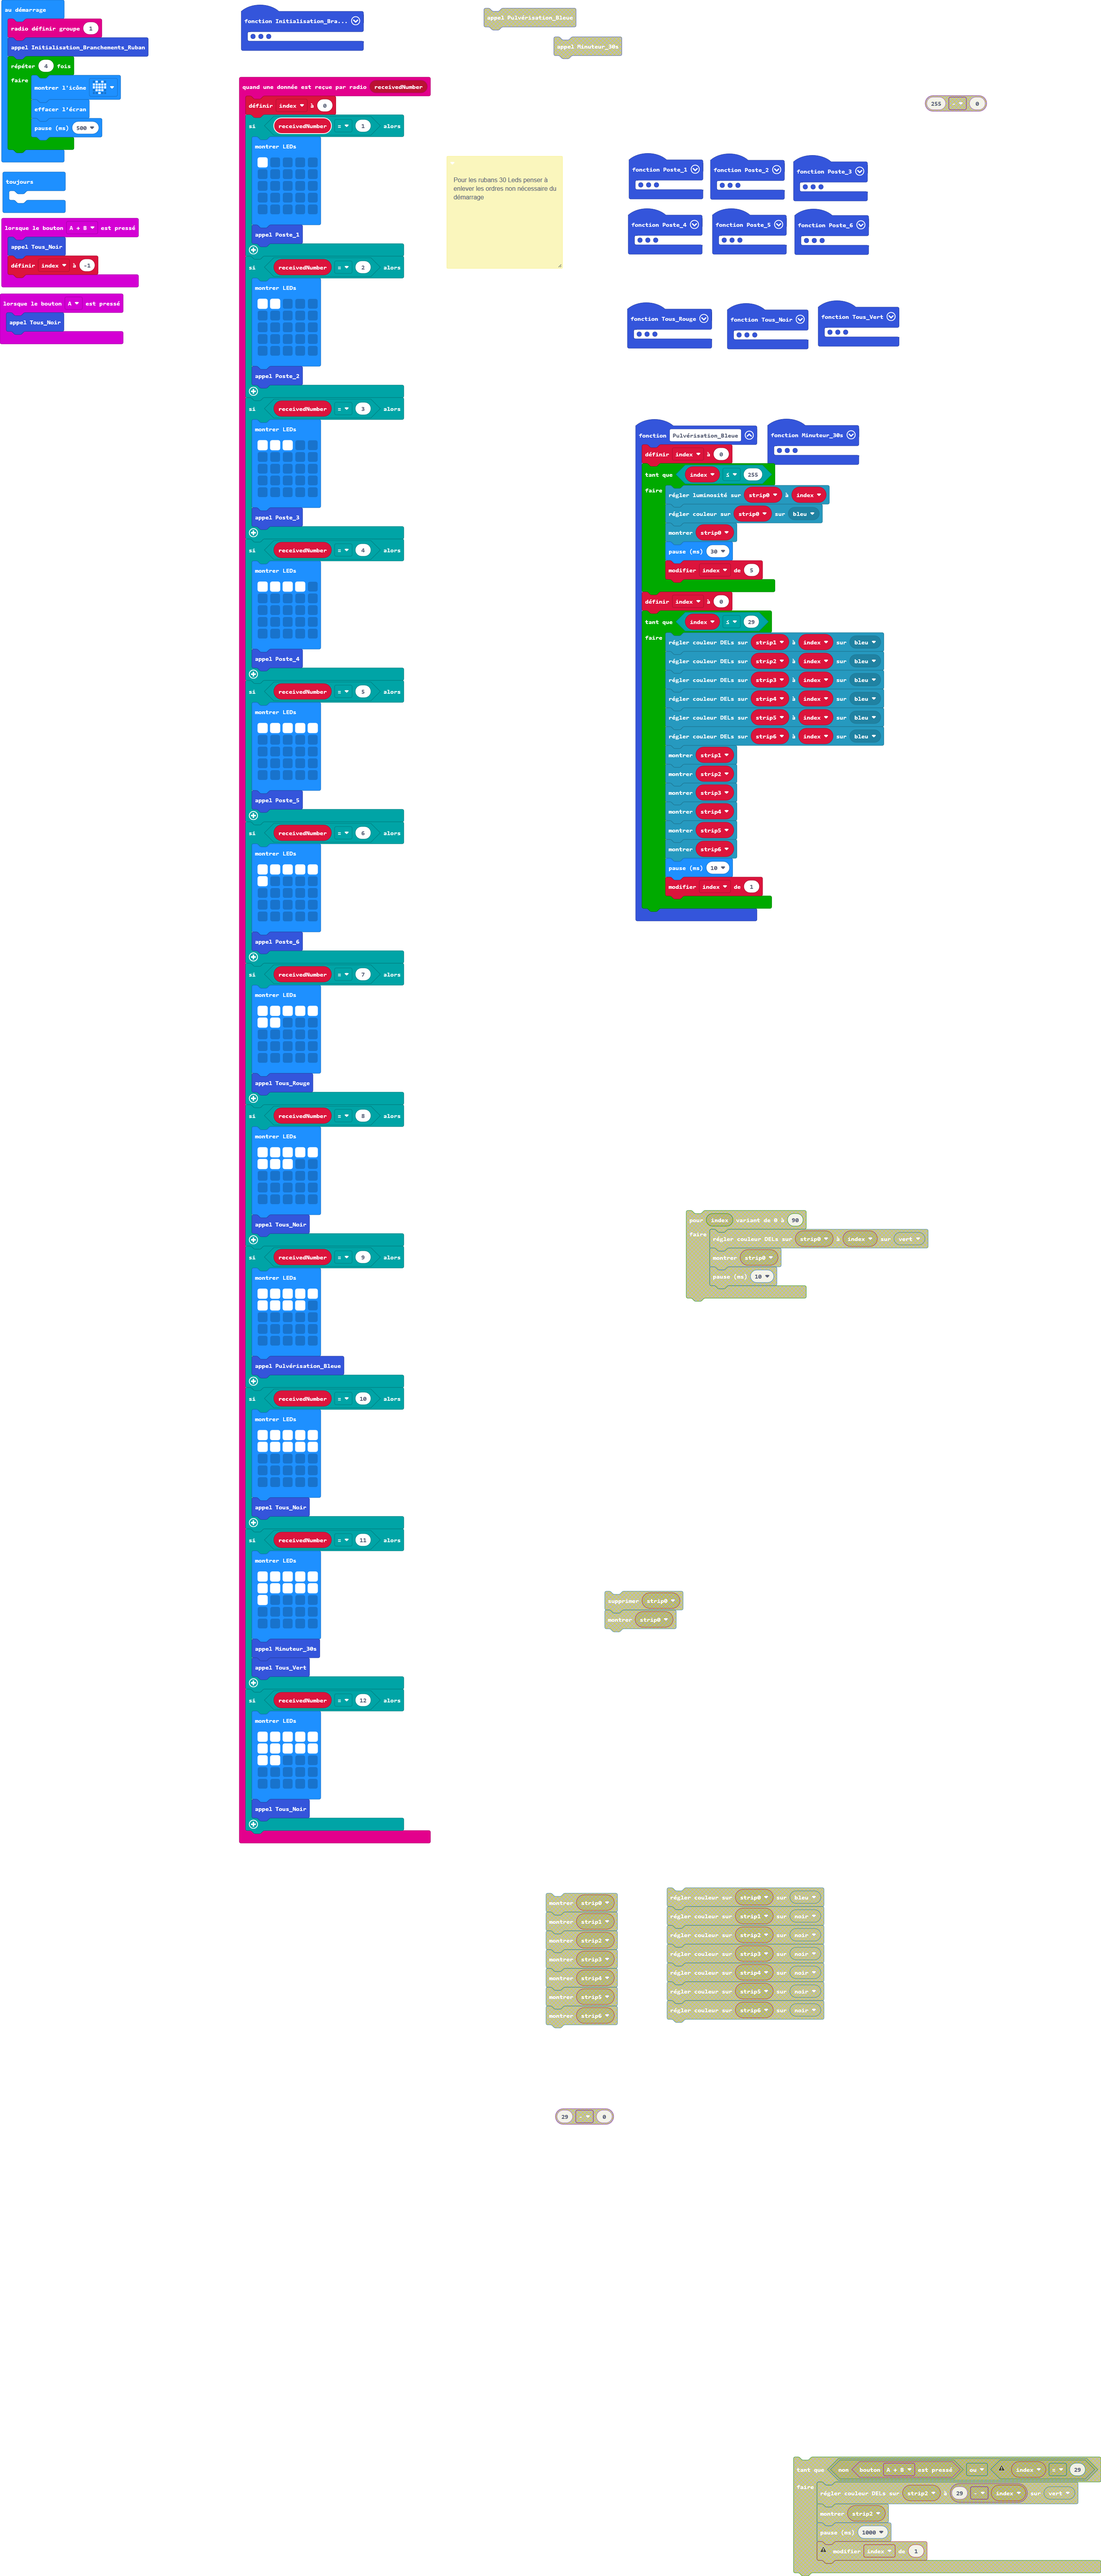
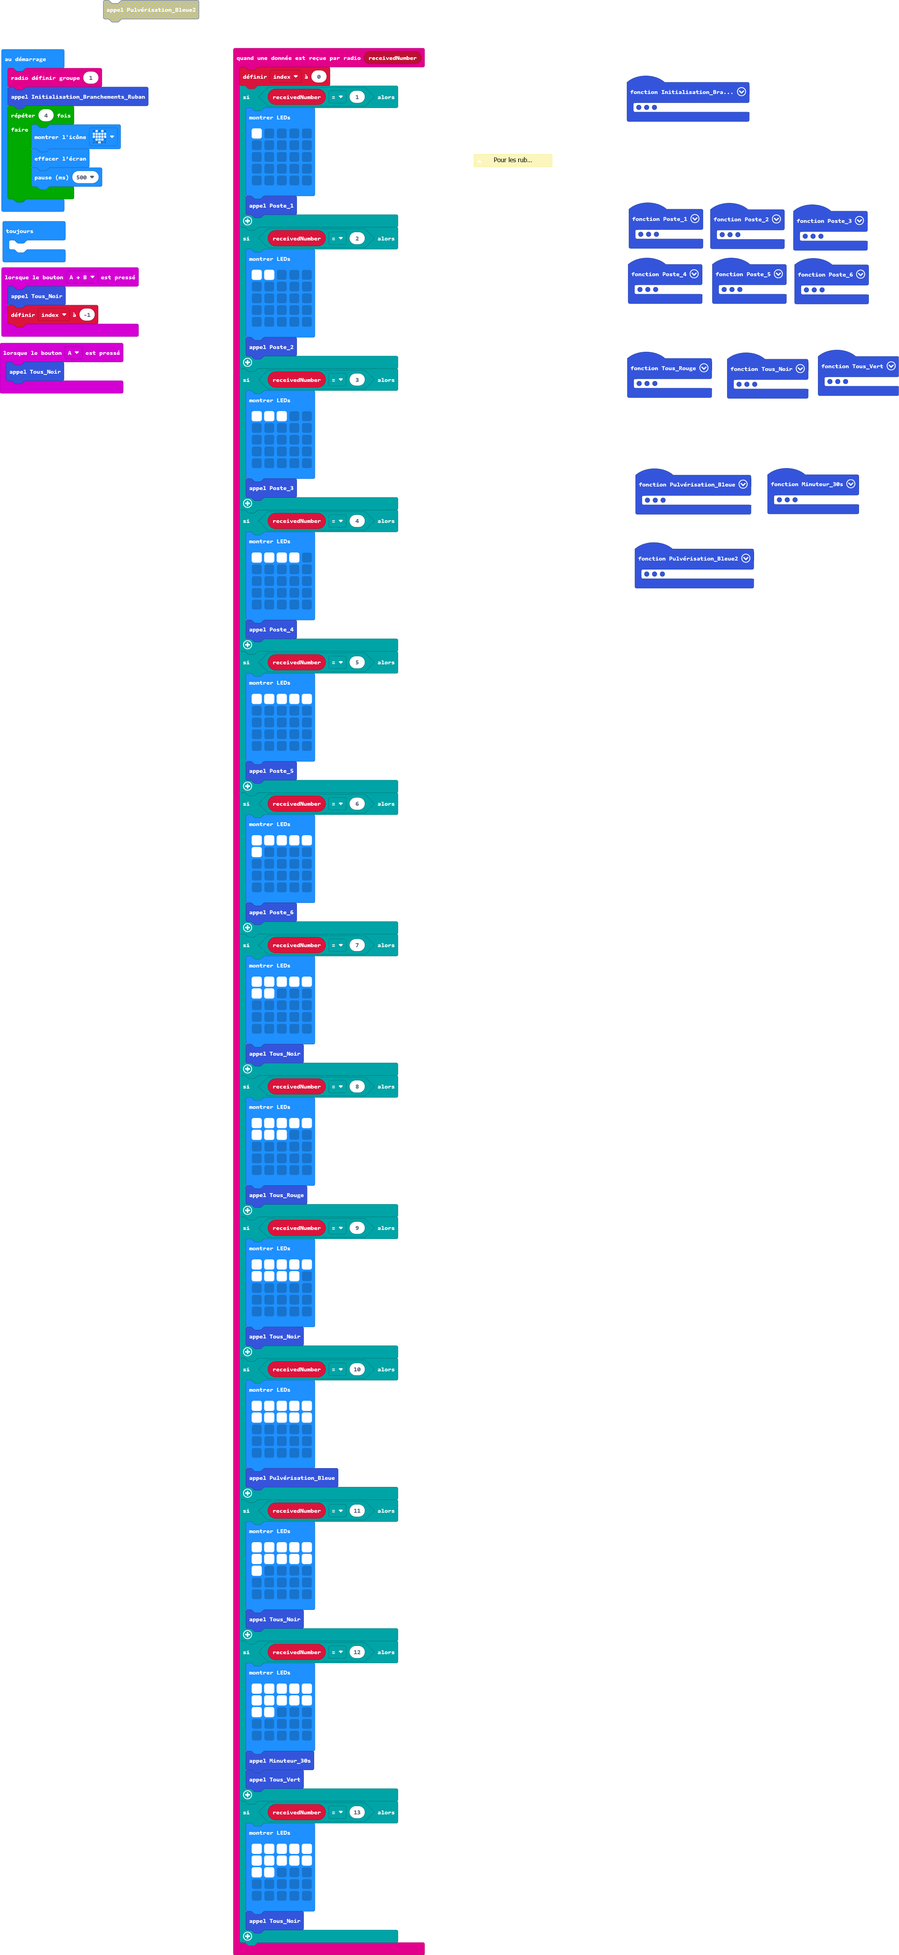
Mise à jour main.blocks, main.ts

diff --git a/main.ts b/main.ts
@@ -1,6 +1,3 @@
-/**
- * Pour les rubans 30 Leds penser à enlever les ordres non nécessaire du démarrage
- */
 function Poste_5 () {
     for (let index = 0; index <= 60; index++) {
         strip0.setPixelColor(index, neopixel.colors(NeoPixelColors.Green))
@@ -82,7 +79,7 @@ radio.onReceivedNumber(function (receivedNumber) {
             . . . . .
             . . . . .
             `)
-        Tous_Rouge()
+        Tous_Noir()
     }
     if (receivedNumber == 8) {
         basic.showLeds(`
@@ -92,7 +89,7 @@ radio.onReceivedNumber(function (receivedNumber) {
             . . . . .
             . . . . .
             `)
-        Tous_Noir()
+        Tous_Rouge()
     }
     if (receivedNumber == 9) {
         basic.showLeds(`
@@ -102,7 +99,7 @@ radio.onReceivedNumber(function (receivedNumber) {
             . . . . .
             . . . . .
             `)
-        Pulvérisation_Bleue()
+        Tous_Noir()
     }
     if (receivedNumber == 10) {
         basic.showLeds(`
@@ -112,7 +109,7 @@ radio.onReceivedNumber(function (receivedNumber) {
             . . . . .
             . . . . .
             `)
-        Tous_Noir()
+        Pulvérisation_Bleue()
     }
     if (receivedNumber == 11) {
         basic.showLeds(`
@@ -122,10 +119,20 @@ radio.onReceivedNumber(function (receivedNumber) {
             . . . . .
             . . . . .
             `)
+        Tous_Noir()
+    }
+    if (receivedNumber == 12) {
+        basic.showLeds(`
+            # # # # #
+            # # # # #
+            # # . . .
+            . . . . .
+            . . . . .
+            `)
         Minuteur_30s()
         Tous_Vert()
     }
-    if (receivedNumber == 12) {
+    if (receivedNumber == 13) {
         basic.showLeds(`
             # # # # #
             # # # # #
@@ -190,6 +197,56 @@ function Initialisation_Branchements_Ruban () {
     strip4 = neopixel.create(DigitalPin.P2, 30, NeoPixelMode.RGB)
     strip5 = neopixel.create(DigitalPin.P0, 30, NeoPixelMode.RGB)
     strip6 = neopixel.create(DigitalPin.P2, 30, NeoPixelMode.RGB)
+}
+function Pulvérisation_Bleue2 () {
+    index = 0
+    for (let index = 0; index <= 60; index++) {
+        strip0.setPixelColor(index, neopixel.colors(NeoPixelColors.Blue))
+        strip0.show()
+        basic.pause(10)
+        index += 1
+    }
+    index = 0
+    while (index <= 29) {
+        strip1.setPixelColor(index, neopixel.colors(NeoPixelColors.Blue))
+        strip2.setPixelColor(index, neopixel.colors(NeoPixelColors.Blue))
+        strip1.show()
+        strip2.show()
+        basic.pause(10)
+        index += 1
+    }
+    index = 0
+    for (let index = 0; index <= 30; index++) {
+        strip0.setPixelColor(60 + index, neopixel.colors(NeoPixelColors.Blue))
+        strip0.show()
+        basic.pause(10)
+        index += 1
+    }
+    index = 0
+    while (index <= 29) {
+        strip3.setPixelColor(index, neopixel.colors(NeoPixelColors.Blue))
+        strip4.setPixelColor(index, neopixel.colors(NeoPixelColors.Blue))
+        strip3.show()
+        strip4.show()
+        basic.pause(10)
+        index += 1
+    }
+    index = 0
+    for (let index = 0; index <= 30; index++) {
+        strip0.setPixelColor(90 + index, neopixel.colors(NeoPixelColors.Blue))
+        strip0.show()
+        basic.pause(10)
+        index += 1
+    }
+    index = 0
+    while (index <= 29) {
+        strip5.setPixelColor(index, neopixel.colors(NeoPixelColors.Blue))
+        strip6.setPixelColor(index, neopixel.colors(NeoPixelColors.Blue))
+        strip5.show()
+        strip6.show()
+        basic.pause(10)
+        index += 1
+    }
 }
 input.onButtonPressed(Button.AB, function () {
     Tous_Noir()
@@ -281,6 +338,9 @@ function Tous_Rouge () {
     strip5.show()
     strip6.show()
 }
+/**
+ * Pour les rubans 30 Leds penser à enlever les ordres non nécessaire du démarrage
+ */
 function Poste_1 () {
     for (let index = 0; index <= 120; index++) {
         strip0.setPixelColor(index, neopixel.colors(NeoPixelColors.Green))
